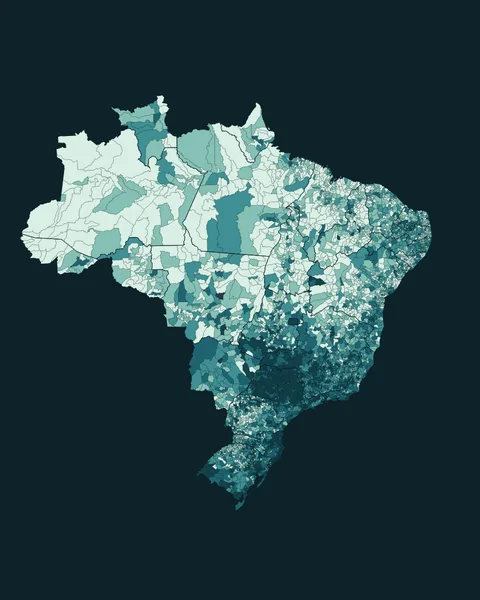
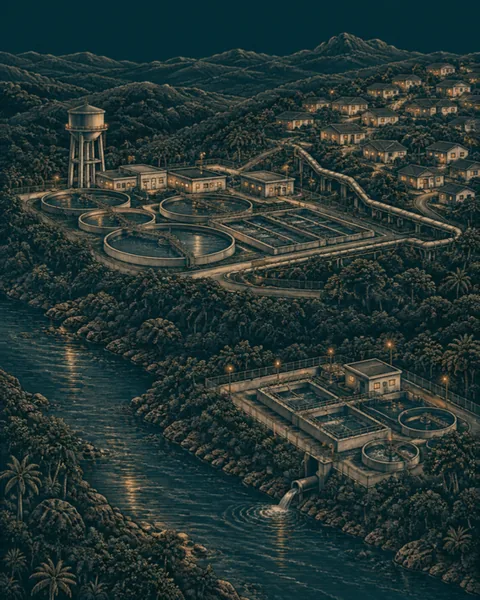
WIP: gravuras aplicadas nas entradas, portas e fim das páginas; lâminas da home uniformizadas
Claude-Session: https://claude.ai/code/session_01Wa3QqdhbWicA4ThDKVXkZD

diff --git a/src/components/observatorios/EntradaObservatorio.tsx b/src/components/observatorios/EntradaObservatorio.tsx
@@ -32,7 +32,7 @@ function ListaPaineis({ paineis }: Readonly<{ paineis: ColecaoEntrada["paineis"]
  * ("Para você"), as coleções a um clique, um modelo didático do mecanismo, caminhos por pergunta e método recolhido no fim.
  */
 export function EntradaObservatorio({
-  rota, acento, pergunta, descricao, escala, paraVoce = null, colecoes, artefato, caminhos, metodo, frescor = null, frescorMetodo = null, parceria = null,
+  rota, acento, pergunta, descricao, escala, paraVoce = null, colecoes, artefato, caminhos, metodo, frescor = null, frescorMetodo = null, parceria = null, gravura = null,
 }: Readonly<{
   /** Endereço da entrada (/observatorios/<id>): o rótulo de contexto lê o observatório por ele. */
   rota: string;
@@ -53,6 +53,8 @@ export function EntradaObservatorio({
   frescorMetodo?: ReactNode;
   /** Crédito de parceria técnica (ParceriaTecnica compacta), à direita do rótulo. */
   parceria?: ReactNode;
+  /** Gravura do observatório (GravuraObservatorio), depois dos números. */
+  gravura?: ReactNode;
 }>) {
   return (
     <EntradaColecao
@@ -64,6 +66,7 @@ export function EntradaObservatorio({
       aoLadoDoRotulo={parceria}
       frescor={frescor}
       escala={escala}
+      figuraEscala={gravura}
       paraVoce={paraVoce}
       destinos={<ColecoesDoObservatorio colecoes={colecoes} />}
       artefato={artefato}

diff --git a/src/components/observatorios/GravuraObservatorio.tsx b/src/components/observatorios/GravuraObservatorio.tsx
@@ -1,0 +1,20 @@
+import Image from "next/image";
+import { GRAVURAS, NOTA_GRAVURA } from "@/lib/observatorios/gravuras";
+import type { ObservatorioId } from "@/lib/observatorios/lista";
+
+/**
+ * Gravura de um observatório como figura (decisão do dono de 10/11/2026: imagens uniformizadas e um elemento visual em
+ * toda página). Uma só família de estilo, um só formato; a nota diz que é ilustração conceitual, sem dado nem lugar real.
+ * `faixa` é a versão baixa (3:1 no celular, 4:1 de 768 px em diante), para onde a altura da página tem orçamento apertado.
+ */
+export function GravuraObservatorio({ id, faixa = false, className = "" }: Readonly<{ id: ObservatorioId; faixa?: boolean; className?: string }>) {
+  const g = GRAVURAS[id];
+  return (
+    <figure className={`min-w-0 ${className}`} data-gravura={id}>
+      <div className={`relative w-full overflow-hidden bg-carvao ${faixa ? "aspect-[3/1] md:aspect-[4/1]" : "aspect-[2/1]"}`}>
+        <Image src={g.src} alt={g.alt} fill sizes="(max-width: 1240px) 100vw, 1240px" className="object-cover" />
+      </div>
+      <figcaption className="mt-2 text-xs leading-relaxed text-mineral">{NOTA_GRAVURA}</figcaption>
+    </figure>
+  );
+}

diff --git a/src/components/observatorios/ParaIrAlem.tsx b/src/components/observatorios/ParaIrAlem.tsx
@@ -52,6 +52,10 @@ export function ParaIrAlem({ mapa }: Readonly<{ mapa: MapaParaIrAlem }>) {
   const link = "inline-flex min-h-[44px] items-center text-carvao underline decoration-linha underline-offset-4";
   return (
     <aside aria-labelledby="para-ir-alem" className="border-t border-linha bg-papel">
+      {/* faixa da gravura do observatório dono (decisão do dono de 10/11/2026: um elemento visual em toda página): decorativa
+          aqui, porque o texto ao lado já nomeia o observatório; a descrição da cena está na entrada dele */}
+      {/* eslint-disable-next-line @next/next/no-img-element */}
+      <img src={`/arte/observatorios/${o.id}.webp`} alt="" aria-hidden="true" width={1440} height={720} loading="lazy" decoding="async" data-gravura-faixa={o.id} className="block h-16 w-full bg-carvao object-cover md:h-24" />
       <div className="mx-auto max-w-page px-6 py-8">
         <h2 id="para-ir-alem" className="rotulo text-mineral">{t("Para ir além", "Further reading")}</h2>
         <p className="mt-3 text-sm leading-relaxed text-carvao">

diff --git a/src/app/territorio/page.tsx b/src/app/territorio/page.tsx
@@ -1,4 +1,5 @@
 import type { Metadata } from "next";
+import { GravuraObservatorio } from "@/components/observatorios/GravuraObservatorio";
 import Link from "next/link";
 import { NumeroEscala } from "@/components/observatorios/NumeroEscala";
 import { EntradaColecao } from "@/components/observatorios/EntradaColecao";
@@ -60,6 +61,7 @@ export default function EntradaTerritorio() {
       frase="O fogo e o desmatamento vistos por satélite, os desastres que a União reconheceu em cada município e as emissões do inventário oficial, cada número com a fonte e o período dele."
       frescor={<FaixaFrescor dominios={FRESCOR_DOS_OBSERVATORIOS["territorio-e-clima"]} conteiner="mx-auto max-w-page px-6" />}
       escala={escala}
+      figuraEscala={<GravuraObservatorio id="territorio-e-clima" faixa className="mt-8" />}
       paraVoce={
         <>
           {/* "Para você" (Onda 2): o fogo e os desastres no município do leitor, a um clique, com a consulta dos focos por município embutida (antes "Teve fogo perto de você?") */}

diff --git a/src/app/observatorios/[id]/page.tsx b/src/app/observatorios/[id]/page.tsx
@@ -1,4 +1,5 @@
 import type { Metadata } from "next";
+import { GravuraObservatorio } from "@/components/observatorios/GravuraObservatorio";
 import { notFound } from "next/navigation";
 import { CabecalhoPlataforma } from "@/components/layout/CabecalhoPlataforma";
 import { Footer } from "@/components/layout/Footer";
@@ -100,6 +101,7 @@ export default function EntradaObservatorioPage({ params }: { params: { id: stri
         pergunta={o.pergunta}
         descricao={c.descricao}
         escala={c.escala}
+        gravura={<GravuraObservatorio id={id} faixa className="mt-8" />}
         paraVoce={o.entrada && ehEntradaParaVoce(o.entrada) ? <ParaVoce entrada={o.entrada} /> : null}
         colecoes={colecoesDe(id)}
         artefato={c.artefato}

diff --git a/src/tests/suporte/i18n-home.ts b/src/tests/suporte/i18n-home.ts
@@ -52,7 +52,7 @@ export const INDICE_HOME = DOMINIOS.map((dominio) => {
   const contagem = contagensIndice[dominio.id];
   return {
     id: dominio.id, nome: dominio.nomeCurto,
-    href: `#obs-${dominio.id}`, imagem: dominio.id === "agro" ? "/home/agro.svg" : `/home/${dominio.id}.webp`, chave: contagem.chave,
+    href: `#obs-${dominio.id}`, imagem: `/home/${dominio.id}.webp`, chave: contagem.chave,
     pt: { valor: contagem.numeros.length === 2 ? contagem.numeros.join(" de ") : formatadorNumero("pt", {}).format(contagem.numeros[0]), unidade: contagem.pt },
     en: { valor: contagem.numeros.map((n) => formatadorNumero("en", {}).format(n)).join(" of "), unidade: contagem.en },
   };

diff --git a/src/components/perguntas/PaginaPorta.tsx b/src/components/perguntas/PaginaPorta.tsx
@@ -1,4 +1,5 @@
 import type { ReactNode } from "react";
+import { GravuraObservatorio } from "@/components/observatorios/GravuraObservatorio";
 import Link from "next/link";
 import { ACENTO } from "@/components/home/acentos";
 import { ConviteConta } from "@/components/perguntas/ConviteConta";
@@ -93,6 +94,7 @@ export function PaginaPorta({ porta, outras, colecoes, retrato, entrada, artefat
               </div>
             ))}
           </dl>
+          <GravuraObservatorio id={porta.id} faixa className="mt-10" />
         </div>
       </section>
 

diff --git a/src/lib/vitrine.ts b/src/lib/vitrine.ts
@@ -274,7 +274,7 @@ export function vitrines(idioma: Idioma = "pt"): Record<DominioId, Vitrine> {
     gas: vitrineGas(fmt),
     agro: {
       id: "agro",
-      imagem: "/home/agro.svg",
+      imagem: "/home/agro.webp",
       contagem: { valor: fmt(CAPITULOS_AGRO.length + PERGUNTAS_AGRO.length), unidade: "páginas por pergunta" },
       contagemIndice: { tipo: "simples", quantidade: CAPITULOS_AGRO.length + PERGUNTAS_AGRO.length, unidade: "paginas_por_pergunta" },
       paineis: [

diff --git a/src/lib/rotasPublicas.ts b/src/lib/rotasPublicas.ts
@@ -42,6 +42,8 @@ const PREFIXOS = [
   "/sobre",
   "/boletim/sair",
   "/home",
+  // gravuras dos observatórios (10/11/2026): ilustrações conceituais, sem dado; as portas abertas e o fim das páginas as exibem
+  "/arte",
   "/setor-eletrico/metodologia",
   "/setor-eletrico/aprenda",
   "/contas-publicas/metodologia",
